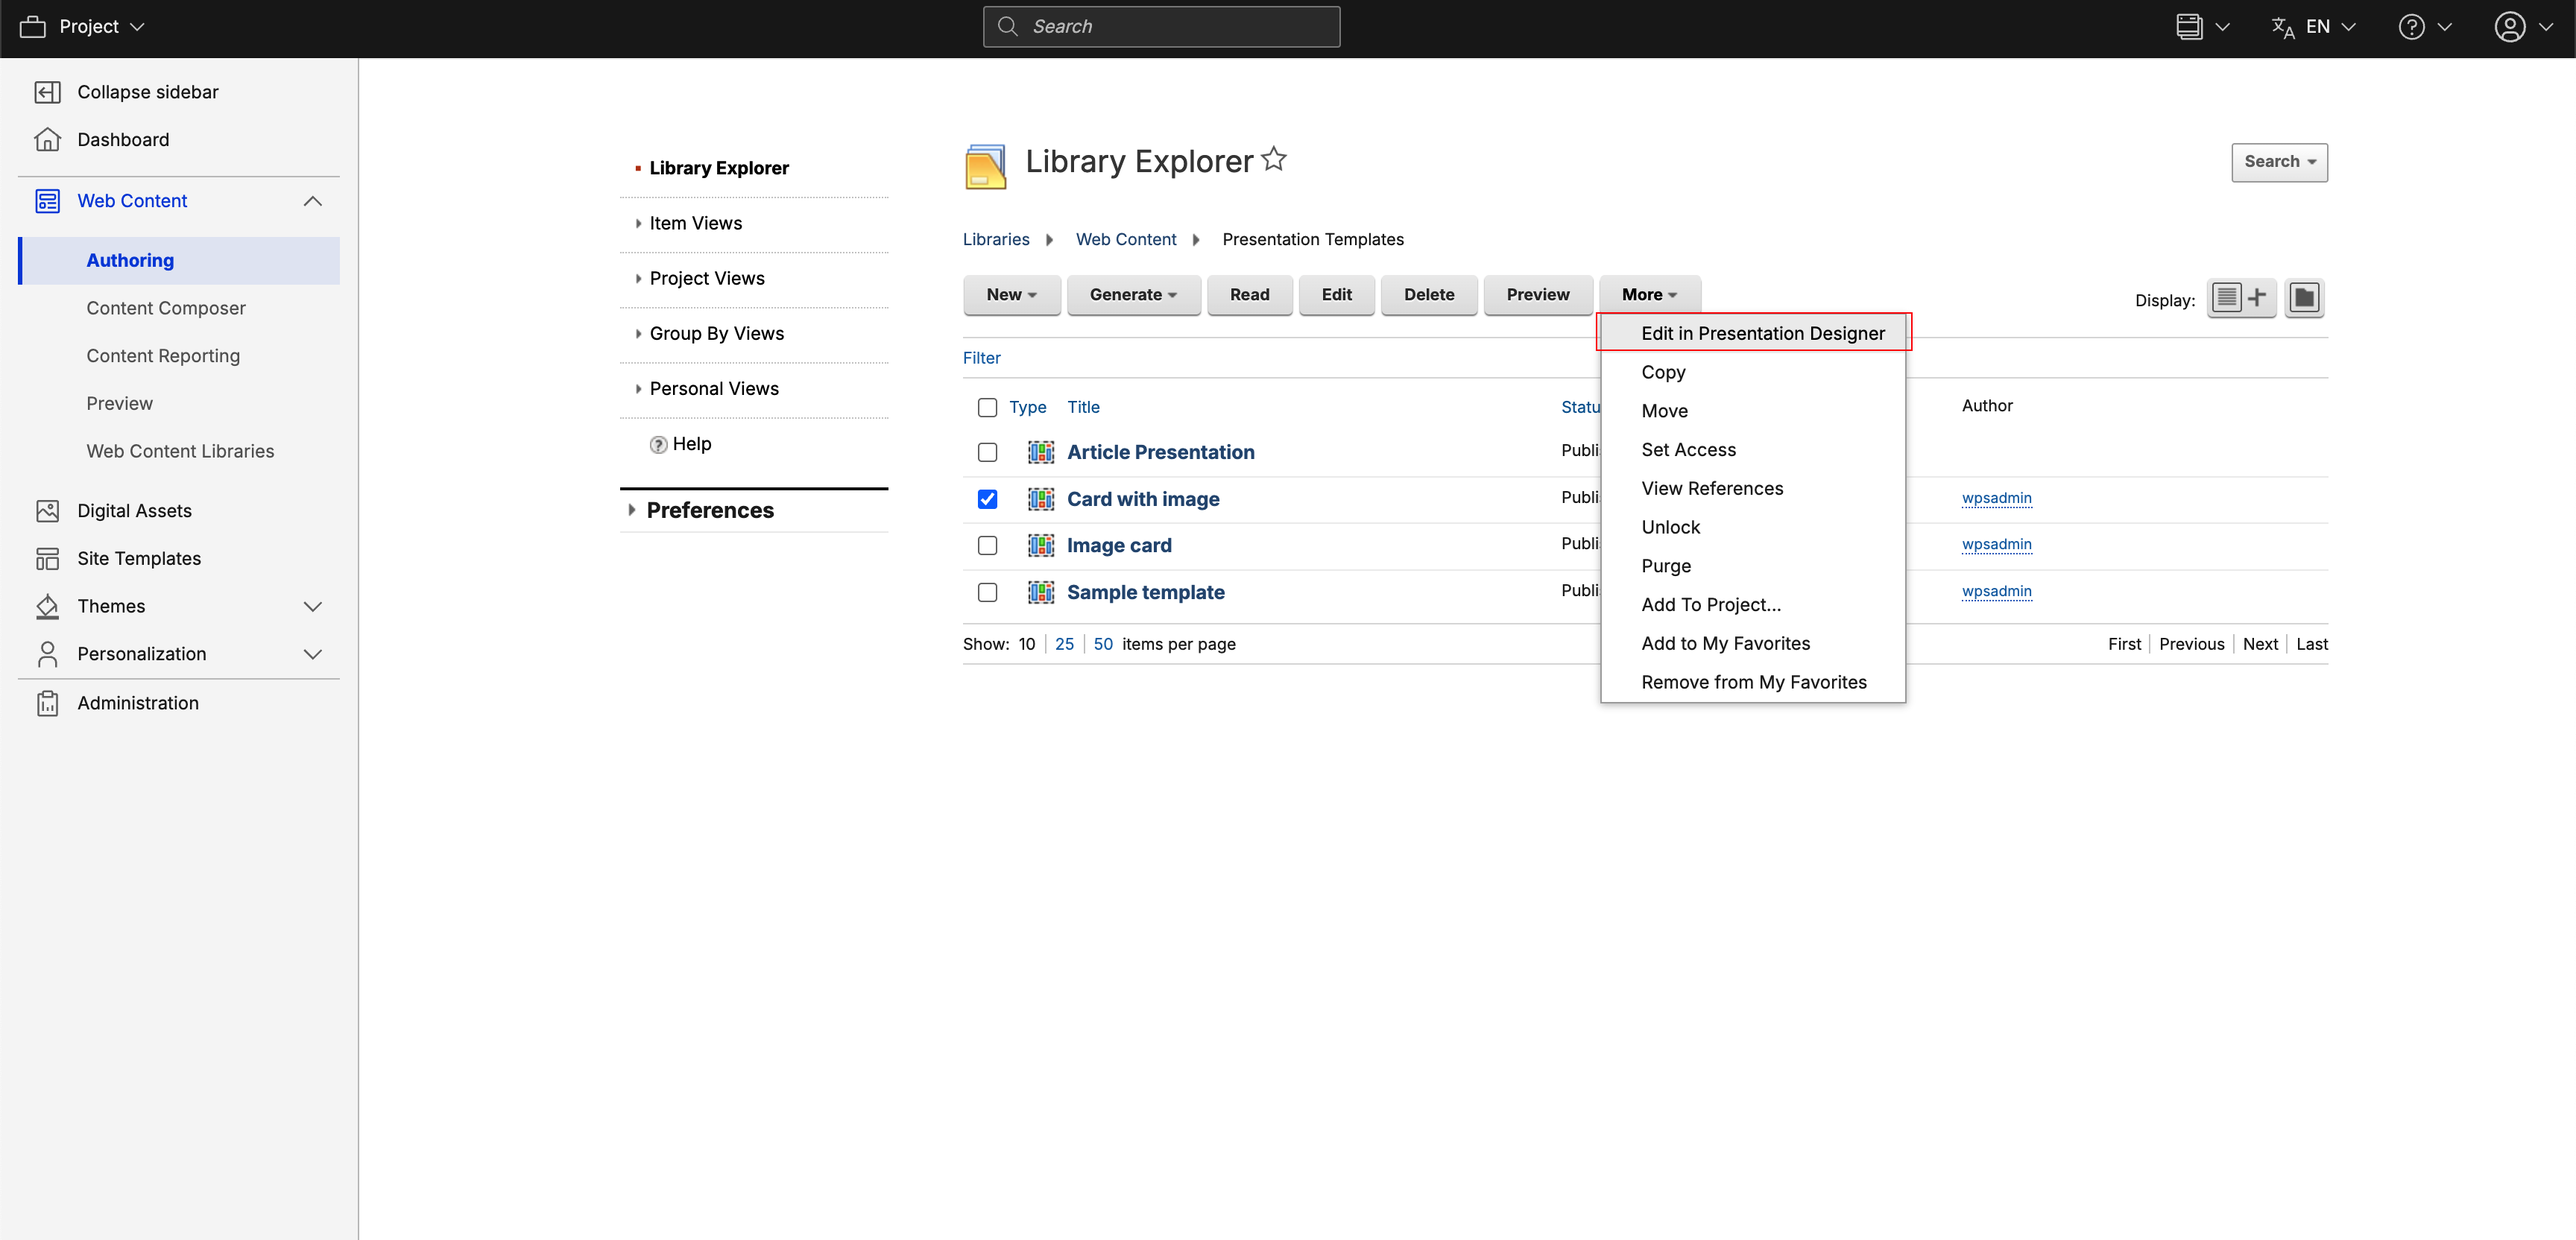
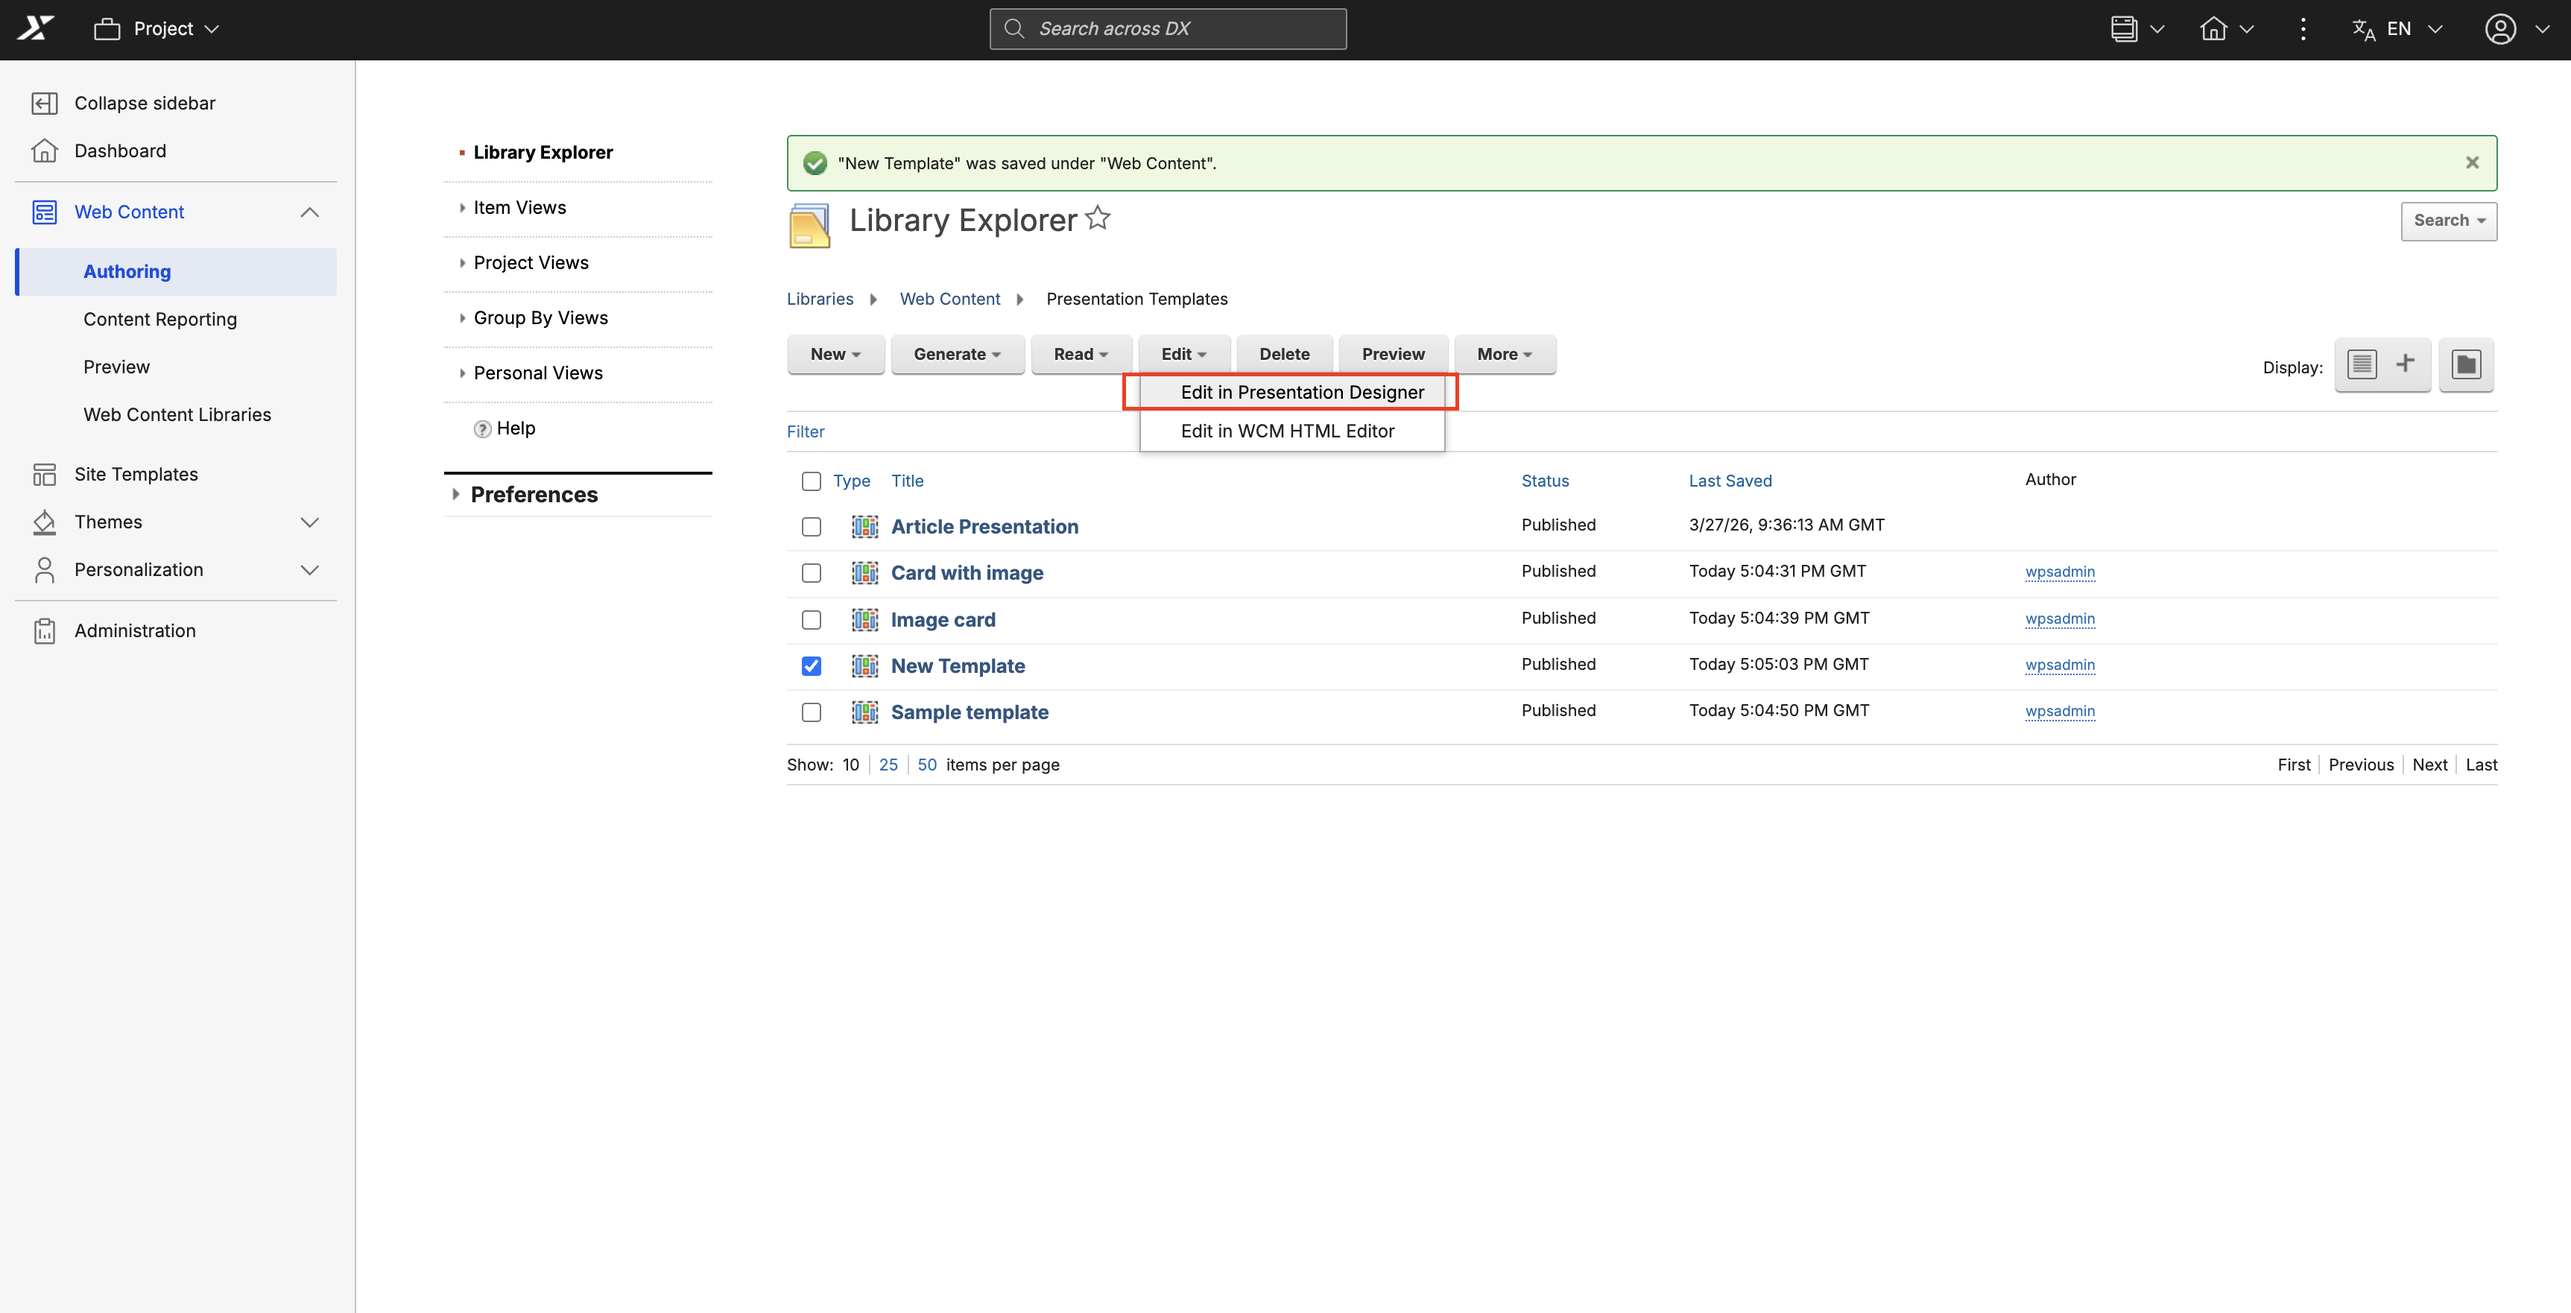
update entry points to PD from Authoring

diff --git a/docs/manage_content/wcm_authoring/presentation_designer/access.md b/docs/manage_content/wcm_authoring/presentation_designer/access.md
@@ -84,11 +84,32 @@ Refer to the following instructions to access and navigate to Presentation Desig
 
     ![](../../../assets/HCL_WCM_Authoring_Create_Presentation_Template.png "HCL WCM Authoring - Create New Presentation Template")
 
-6. Select the newly created presentation template and go to **More** > **Edit in Presentation Designer**.
+6. Select the presentation template you want to access by checking the box next to its title.
+
+    ![](../../../assets/HCL_WCM_Authoring_Presentation_Template_Selected.png "HCL WCM Authoring - Select New Presentation Template")
+
+7. Choose how you want to open the presentation template using the action buttons located in the toolbar:
+    * **To edit the template in Presentation Designer:** Click the **Edit** drop-down menu and select **Edit in Presentation Designer**. This opens the template in the Presentation Designer with the toggle button set to **Edit mode**.
 
     ![](../../../assets/HCL_WCM_Authoring_Presentation_Template_Edit_in_Presentation_Designer.png "HCL WCM Authoring - Edit Presentation Template in Presentation Designer")
 
-The Presentation Designer user interface appears. You can also refer to Step 6 to view or edit your existing presentation templates.  
+    * **To view the template in Presentation Designer:** Click the **Read** drop-down menu and select **Read in Presentation Designer**. This opens the template in the Presentation Designer with the toggle button set to **Read only**.
+
+    ![](../../../assets/HCL_WCM_Authoring_Presentation_Template_Read_in_Presentation_Designer.png "HCL WCM Authoring - Read Presentation Template in Presentation Designer")
+
+    !!! note
+        You can also choose to open the template in the standard WCM HTML Editor by selecting **Edit in WCM HTML Editor** or **Read in WCM HTML Editor** from these same drop-down menus.
+
+8. You can also switch to the Presentation Designer while working within the standard WCM HTML Editor:
+    * When you open a presentation template using **Read in WCM HTML Editor**, the **Edit** button is available in the action bar. Click **Edit > Edit in Presentation Designer** to open the template in Presentation Designer in edit mode.
+
+    ![](../../../assets/HCL_WCM_Authoring_Presentation_Template_Edit_in_Presentation_Designer_from_WCM_Editor.png "HCL WCM Authoring - Edit Presentation Template in Presentation Designer from WCM HTML Editor")
+
+    * When you open a presentation template using **Edit in WCM HTML Editor**, the **Read** button is available in the action bar. Click **Read > Read in Presentation Designer** to open the template in Presentation Designer in read-only mode.
+
+    ![](../../../assets/HCL_WCM_Authoring_Presentation_Template_Read_in_Presentation_Designer_from_WCM_Editor.png "HCL WCM Authoring - Read Presentation Template in Presentation Designer from WCM HTML Editor")
+
+The Presentation Designer user interface appears. You can also refer to Step 6 to 8 to view or edit your existing presentation templates.  
 
 ![](../../../assets/HCL_Presentation_Desinger_Blank_Canvas.png "HCL Presentation Desinger - Blank Canvas")
 
